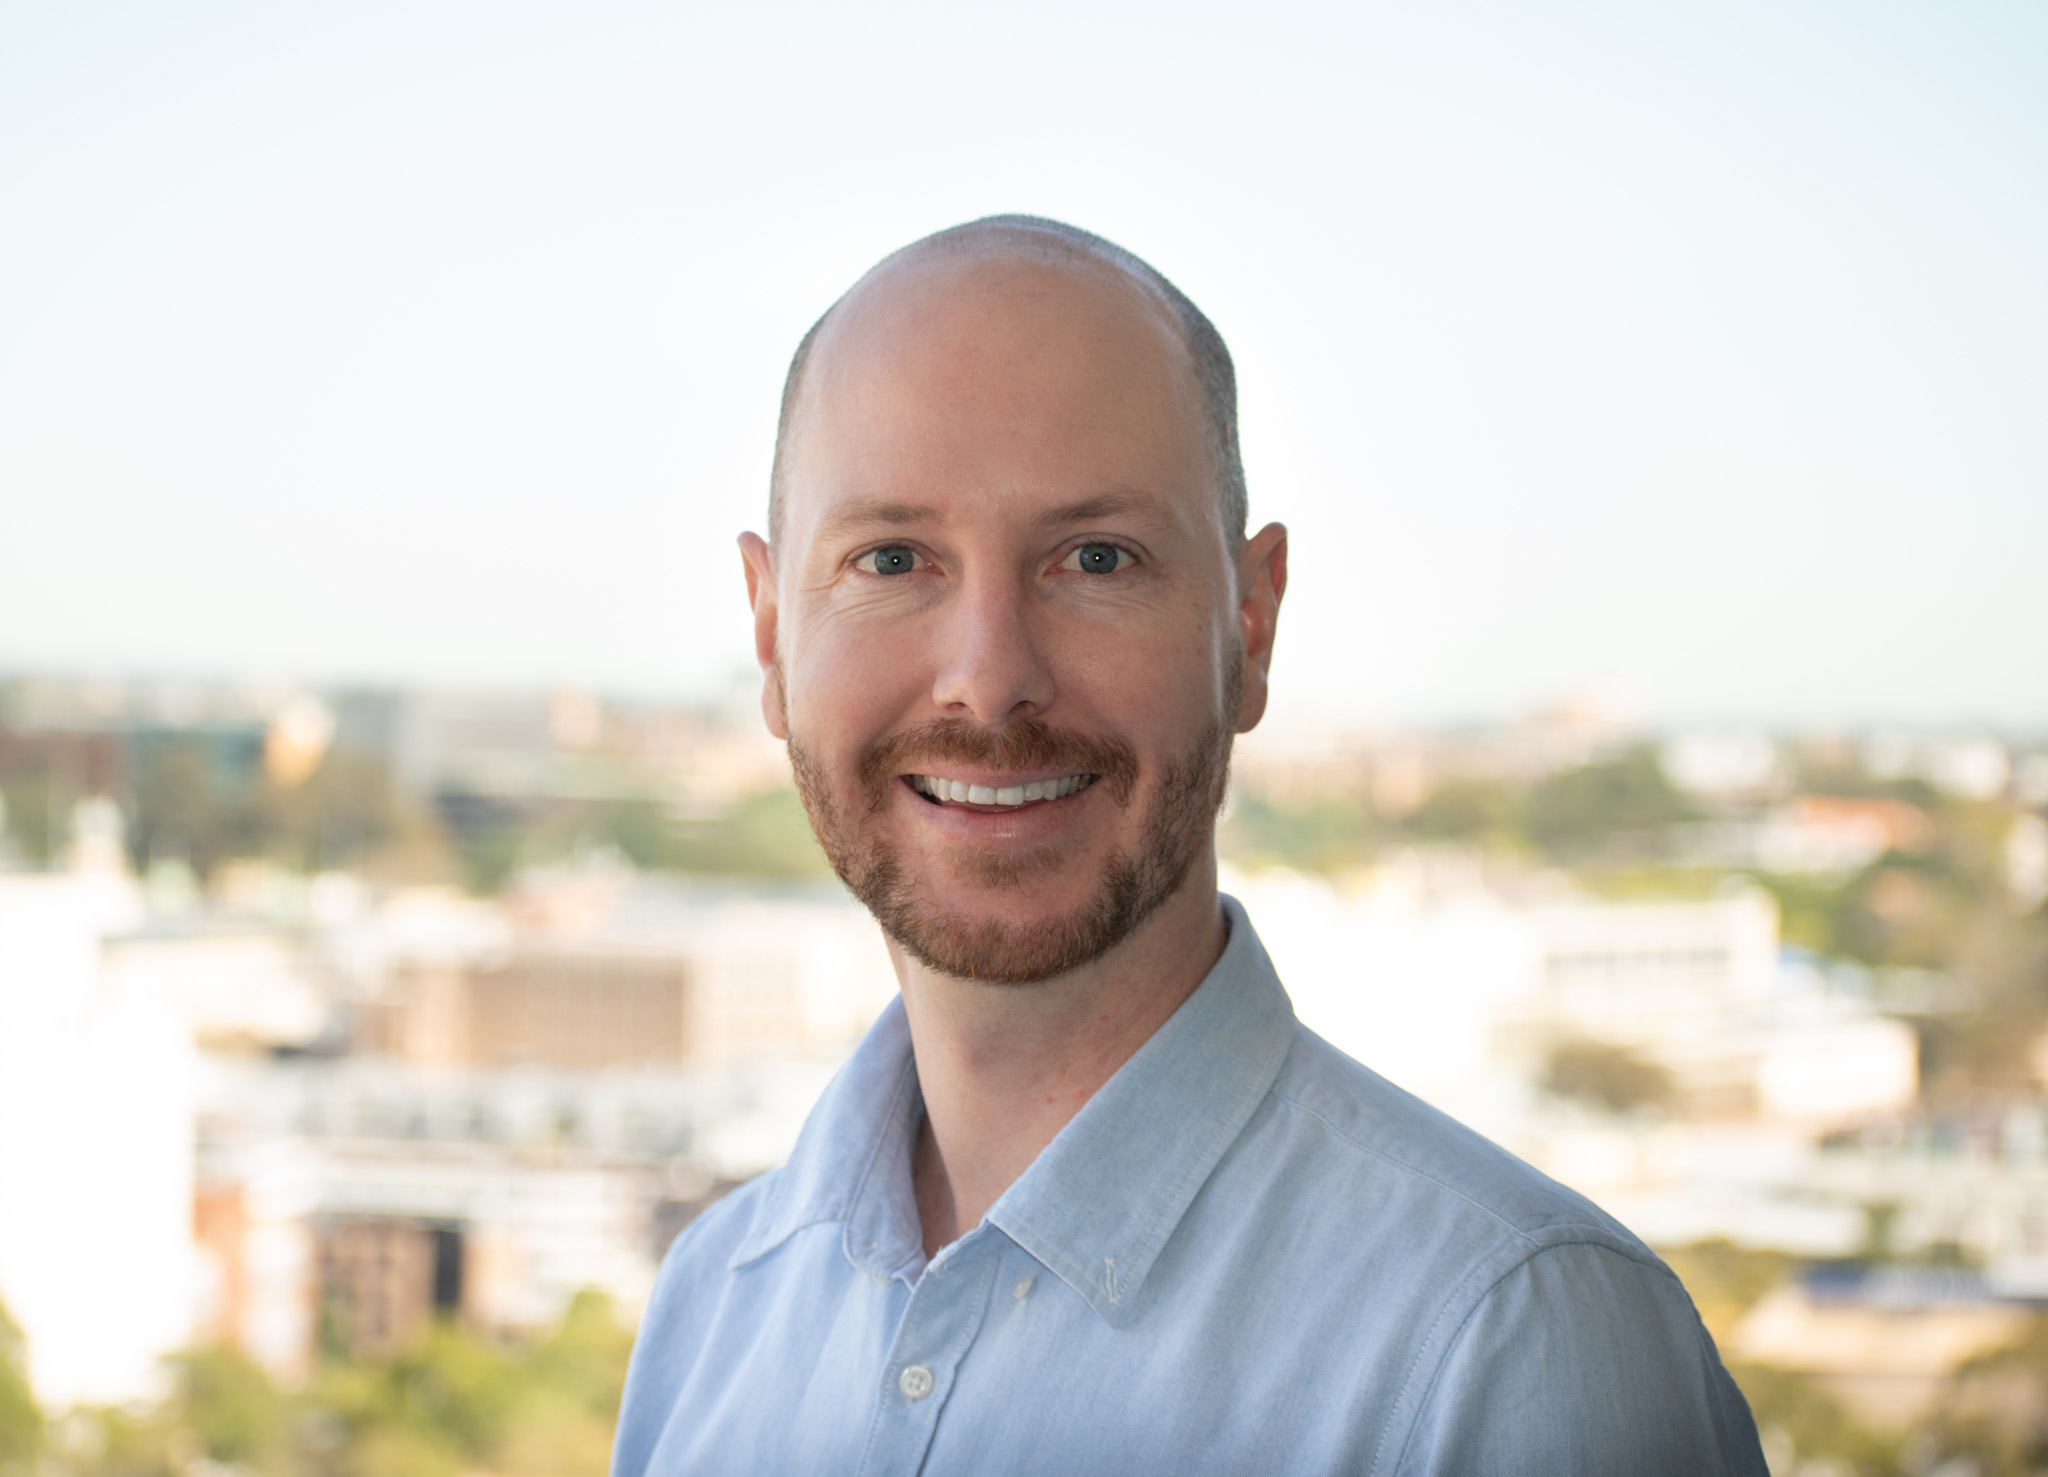
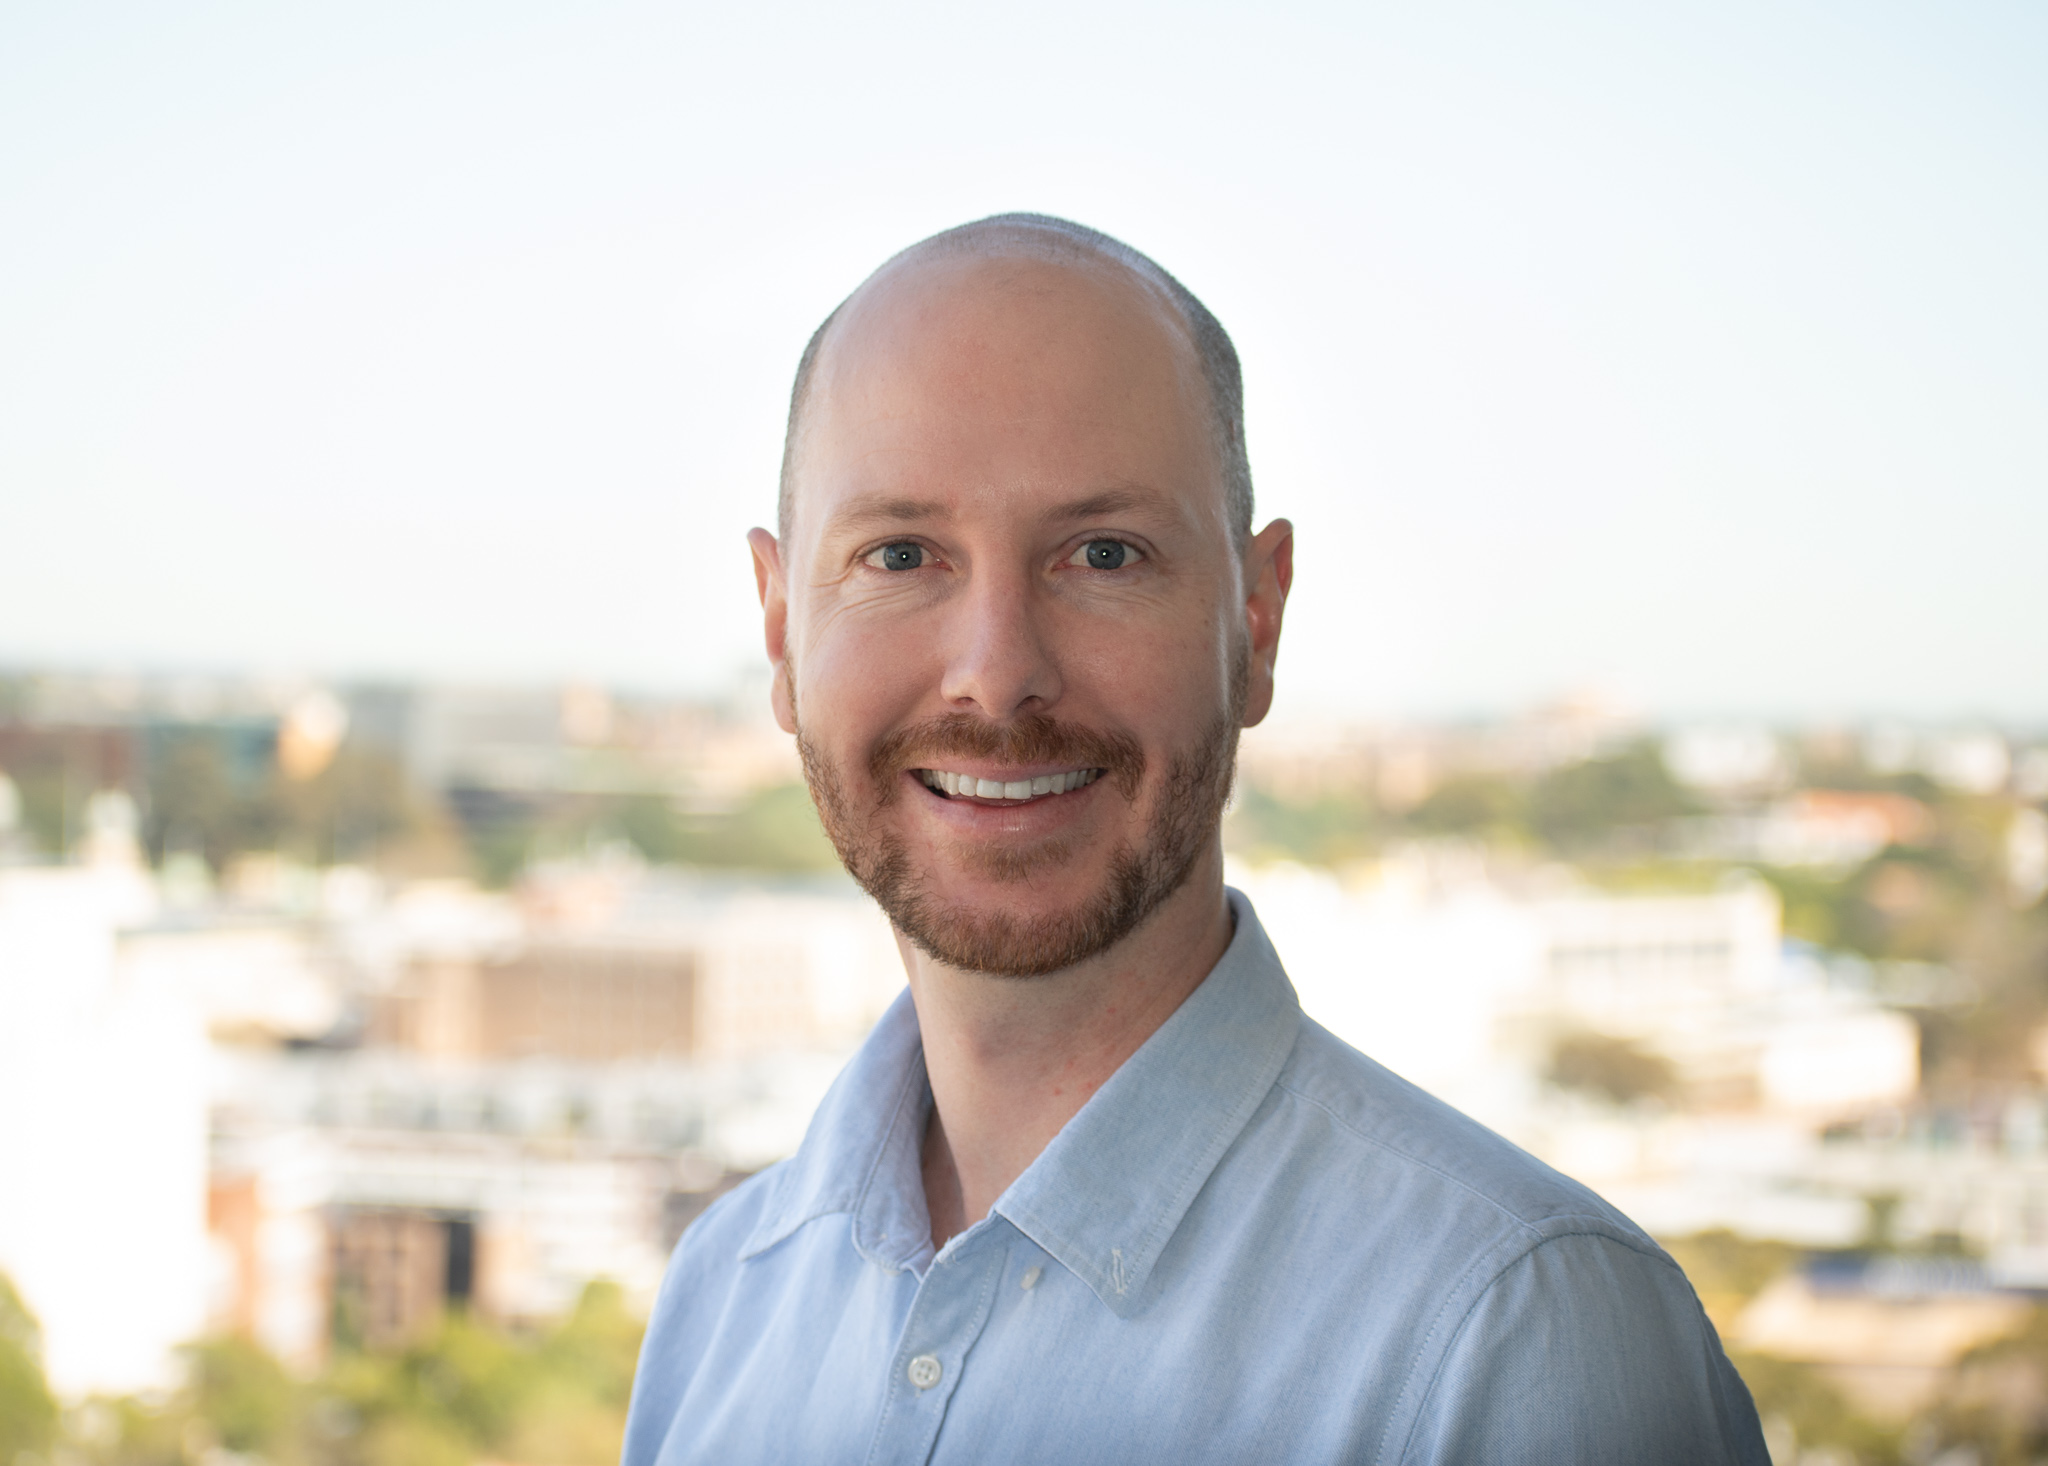
Updating publications and photo

diff --git a/index.html b/index.html
@@ -83,7 +83,7 @@
         <!-- About section -->
         <div class="w3-container w3-dark-grey w3-center w3-text-light-grey w3-padding-16" id="about">
             <h4><b>About Me</b></h4>
-            <img src="https://a-w-harrison.github.io/profile.jpg" alt="Me" class="w3-image w3-padding-16" width="600" height="650">
+            <img src="https://a-w-harrison.github.io/profile.jpg" alt="Me" class="w3-image w3-padding-16" width="600" height="600">
             <div class="w3-content w3-justify" style="max-width:600px">
                 <h4>Anthony W. Harrison</h4>
                 I am currently completing a combined PhD / Masters of Psychology (Clinical) at the <a href="https://www.unsw.edu.au/"> University of New South Wales</a>.
@@ -114,15 +114,19 @@
             <h4 class="w3-center"><b>Publications</b></h4>
             <h5 class="w3-justify"><b>Peer Reviewed</b></h5>
             <p>
-                3. <b>Harrison, A. W.,</b> Shou, Y., & Christensen, B. K. (in press).
+                4. <b>Harrison, A. W.,</b> Shou, Y., & Christensen, B. K. (in press).
                 A cognitive model of delusion propensity through dysregulated correlation detection.
                 <i>Schizophrenia Research</i>.
                 <br><br>
-                2. <b>Harrison, A. W.,</b> Mannion, D. J., Jack, B. N., Griffiths, O., Hughes, G., & Whitford, T. J. (2021).
+                3. <b>Harrison, A. W.,</b> Mannion, D. J., Jack, B. N., Griffiths, O., Hughes, G., & Whitford, T. J. (2021).
                 Sensory attenuation is modulated by the contrasting effects of predictability and control.
                 <i>NeuroImage</i>, 118103.
                 <a href="https://doi.org/10.1016/j.neuroimage.2021.118103"><span style="color: blue;">https://doi.org/10.1016/j.neuroimage.2021.118103</span></a>
                 <a href="https://a-w-harrison.github.io/articlePDFs/SensoryAttenuationModulatedPredictionControl.pdf"><span style="color: red;">[pdf]</span></a>
+                <br><br>
+                2. Monds, L. A., Cullen, H. J., Kloft, L., Sumampouw, N., van Golde, C., <b>Harrison, A. W.,</b> & Otgaar, H. (in press).
+                Police perceptions of eyewitness impairment due to alcohol and other drug use: a cross-cultural comparison.
+                <i>Police Practice and Research</i>.
                 <br><br>
                 1. Monds, L. A., Cullen, H. J., Kloft, L., van Golde, C., <b>Harrison, A. W.,</b> & Flowe, H. (2021).
                 Memory and credibility perceptions of alcohol and other drug intoxicated witnesses and victims of crime.
